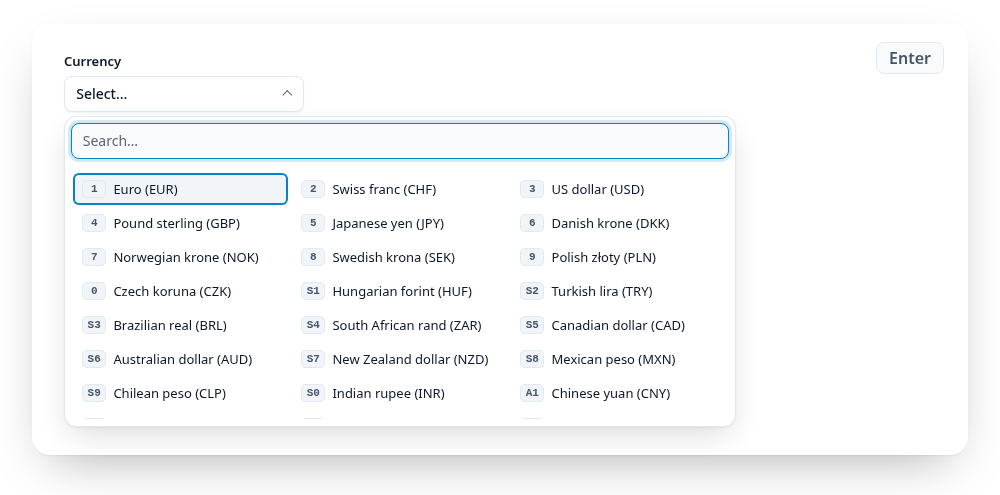
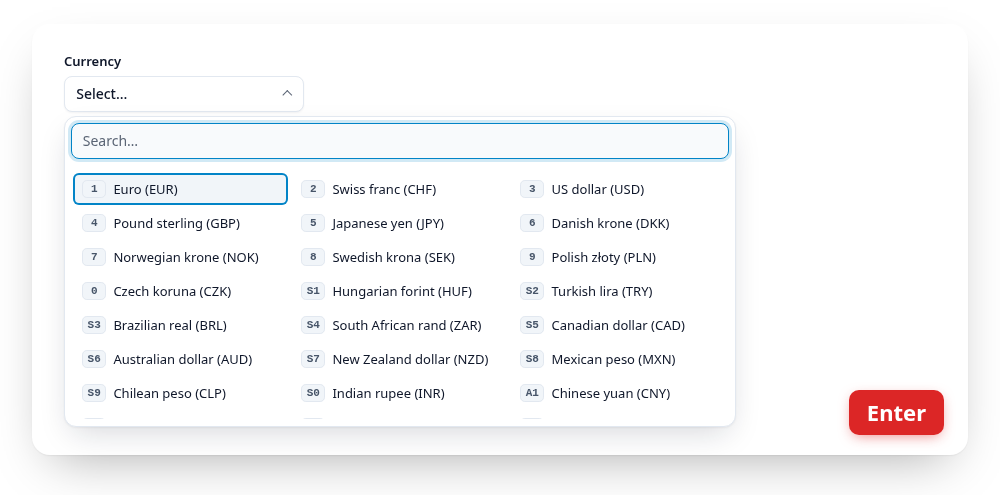
docs: red key badge in the bottom right corner of the README animations

Changed region(s): [[0.837, 0.7879, 0.961, 0.9091], [0.868, 0.0909, 0.93, 0.1515]]

diff --git a/scripts/screenshots.js b/scripts/screenshots.js
@@ -33,13 +33,14 @@ async function stage(page, scheme, id) {
       boxShadow: "0 1px 2px rgb(0 0 0 / .06), 0 20px 50px -20px rgb(0 0 0 / .35)",
     });
     card.append(document.getElementById(id));
-    // Shows the key of the current animation step in the top right corner.
+    // Shows the key of the current animation step in the bottom right corner.
     const key = document.createElement("kbd");
     key.id = "shot-key";
     Object.assign(key.style, {
-      position: "absolute", top: "18px", right: "24px", padding: "4px 12px", borderRadius: "8px",
-      font: "600 16px/1.4 system-ui, sans-serif", minWidth: "1.5em", textAlign: "center", color: "var(--page-text)",
-      background: "var(--frame-bg)", border: "1px solid var(--page-line)", visibility: "hidden",
+      // Red with white text (4.8:1), so the pressed key stands out from the teal or blue component.
+      position: "absolute", bottom: "20px", right: "24px", padding: "8px 18px", borderRadius: "10px",
+      font: "700 22px/1.3 system-ui, sans-serif", minWidth: "1.4em", textAlign: "center", color: "#ffffff",
+      background: "#dc2626", boxShadow: "0 4px 14px -4px rgb(220 38 38 / .6)", visibility: "hidden",
     });
     card.style.position = "relative";
     card.append(key);

diff --git a/README.md b/README.md
@@ -356,10 +356,10 @@ labels, or `selectedText(n)` for more. `gs.value` is always an array.
 
 <a href="https://emmgeede.github.io/gridselect/">
 <picture>
-  <source media="(prefers-reduced-motion: reduce) and (prefers-color-scheme: dark)" srcset="https://raw.githubusercontent.com/emmgeede/gridselect/main/assets/multiple-dark.png?v=1">
-  <source media="(prefers-reduced-motion: reduce)" srcset="https://raw.githubusercontent.com/emmgeede/gridselect/main/assets/multiple-light.png?v=1">
-  <source media="(prefers-color-scheme: dark)" srcset="https://raw.githubusercontent.com/emmgeede/gridselect/main/assets/multiple-dark.webp?v=1">
-  <img src="https://raw.githubusercontent.com/emmgeede/gridselect/main/assets/multiple-light.webp?v=1" width="100%" alt="Animation: the watchlist panel opens, 'dollar' filters it, Enter ticks US dollar, arrow right and Enter tick Canadian dollar, the digit 4 ticks New Zealand dollar, the field reads '3 selected', Escape closes the panel.">
+  <source media="(prefers-reduced-motion: reduce) and (prefers-color-scheme: dark)" srcset="https://raw.githubusercontent.com/emmgeede/gridselect/main/assets/multiple-dark.png?v=2">
+  <source media="(prefers-reduced-motion: reduce)" srcset="https://raw.githubusercontent.com/emmgeede/gridselect/main/assets/multiple-light.png?v=2">
+  <source media="(prefers-color-scheme: dark)" srcset="https://raw.githubusercontent.com/emmgeede/gridselect/main/assets/multiple-dark.webp?v=2">
+  <img src="https://raw.githubusercontent.com/emmgeede/gridselect/main/assets/multiple-light.webp?v=2" width="100%" alt="Animation: the watchlist panel opens, 'dollar' filters it, Enter ticks US dollar, arrow right and Enter tick Canadian dollar, the digit 4 ticks New Zealand dollar, the field reads '3 selected', Escape closes the panel.">
 </picture>
 </a>
 
@@ -416,10 +416,10 @@ it in the label, e.g. `Swiss franc (CHF)`.
 
 <a href="https://emmgeede.github.io/gridselect/">
 <picture>
-  <source media="(prefers-reduced-motion: reduce) and (prefers-color-scheme: dark)" srcset="https://raw.githubusercontent.com/emmgeede/gridselect/main/assets/search-dark.png?v=1">
-  <source media="(prefers-reduced-motion: reduce)" srcset="https://raw.githubusercontent.com/emmgeede/gridselect/main/assets/search-light.png?v=1">
-  <source media="(prefers-color-scheme: dark)" srcset="https://raw.githubusercontent.com/emmgeede/gridselect/main/assets/search-dark.webp?v=1">
-  <img src="https://raw.githubusercontent.com/emmgeede/gridselect/main/assets/search-light.webp?v=1" width="100%" alt="Animation: the currency panel opens and 'dollar' is typed letter by letter. With every letter fewer currencies remain, renumbered from 1, until six dollar currencies are left.">
+  <source media="(prefers-reduced-motion: reduce) and (prefers-color-scheme: dark)" srcset="https://raw.githubusercontent.com/emmgeede/gridselect/main/assets/search-dark.png?v=2">
+  <source media="(prefers-reduced-motion: reduce)" srcset="https://raw.githubusercontent.com/emmgeede/gridselect/main/assets/search-light.png?v=2">
+  <source media="(prefers-color-scheme: dark)" srcset="https://raw.githubusercontent.com/emmgeede/gridselect/main/assets/search-dark.webp?v=2">
+  <img src="https://raw.githubusercontent.com/emmgeede/gridselect/main/assets/search-light.webp?v=2" width="100%" alt="Animation: the currency panel opens and 'dollar' is typed letter by letter. With every letter fewer currencies remain, renumbered from 1, until six dollar currencies are left.">
 </picture>
 </a>
 
@@ -561,14 +561,14 @@ Above the threshold:
 
 <a href="https://emmgeede.github.io/gridselect/">
 <picture>
-  <source media="(prefers-reduced-motion: reduce) and (prefers-color-scheme: dark)" srcset="https://raw.githubusercontent.com/emmgeede/gridselect/main/assets/keyboard-dark.png?v=1">
-  <source media="(prefers-reduced-motion: reduce)" srcset="https://raw.githubusercontent.com/emmgeede/gridselect/main/assets/keyboard-light.png?v=1">
-  <source media="(prefers-color-scheme: dark)" srcset="https://raw.githubusercontent.com/emmgeede/gridselect/main/assets/keyboard-dark.webp?v=1">
-  <img src="https://raw.githubusercontent.com/emmgeede/gridselect/main/assets/keyboard-light.webp?v=1" width="100%" alt="Animation: Enter opens the currency panel, the cursor outline moves right twice, down twice and left once, Enter picks Polish złoty and the panel closes with it in the field.">
+  <source media="(prefers-reduced-motion: reduce) and (prefers-color-scheme: dark)" srcset="https://raw.githubusercontent.com/emmgeede/gridselect/main/assets/keyboard-dark.png?v=2">
+  <source media="(prefers-reduced-motion: reduce)" srcset="https://raw.githubusercontent.com/emmgeede/gridselect/main/assets/keyboard-light.png?v=2">
+  <source media="(prefers-color-scheme: dark)" srcset="https://raw.githubusercontent.com/emmgeede/gridselect/main/assets/keyboard-dark.webp?v=2">
+  <img src="https://raw.githubusercontent.com/emmgeede/gridselect/main/assets/keyboard-light.webp?v=2" width="100%" alt="Animation: Enter opens the currency panel, the cursor outline moves right twice, down twice and left once, Enter picks Polish złoty and the panel closes with it in the field.">
 </picture>
 </a>
 
-<sub><b>Keyboard.</b> Arrow keys move the outlined cursor through the grid, Enter picks the entry and closes the panel. The key in the top right corner is the one just pressed.</sub>
+<sub><b>Keyboard.</b> Arrow keys move the outlined cursor through the grid, Enter picks the entry and closes the panel. The red badge in the bottom right corner shows the key just pressed.</sub>
 
 ### Digit shortcuts
 
@@ -581,10 +581,10 @@ the search; in `filter` mode the visible matches are renumbered from 1, in
 
 <a href="https://emmgeede.github.io/gridselect/">
 <picture>
-  <source media="(prefers-reduced-motion: reduce) and (prefers-color-scheme: dark)" srcset="https://raw.githubusercontent.com/emmgeede/gridselect/main/assets/digits-dark.png?v=1">
-  <source media="(prefers-reduced-motion: reduce)" srcset="https://raw.githubusercontent.com/emmgeede/gridselect/main/assets/digits-light.png?v=1">
-  <source media="(prefers-color-scheme: dark)" srcset="https://raw.githubusercontent.com/emmgeede/gridselect/main/assets/digits-dark.webp?v=1">
-  <img src="https://raw.githubusercontent.com/emmgeede/gridselect/main/assets/digits-light.webp?v=1" width="100%" alt="Animation: Enter opens the currency panel with digit badges 1 to 0, then S1 to S0 and A1. Pressing 4 picks Pound sterling and closes the panel. After reopening, Shift and 3 picks Brazilian real, badge S3.">
+  <source media="(prefers-reduced-motion: reduce) and (prefers-color-scheme: dark)" srcset="https://raw.githubusercontent.com/emmgeede/gridselect/main/assets/digits-dark.png?v=2">
+  <source media="(prefers-reduced-motion: reduce)" srcset="https://raw.githubusercontent.com/emmgeede/gridselect/main/assets/digits-light.png?v=2">
+  <source media="(prefers-color-scheme: dark)" srcset="https://raw.githubusercontent.com/emmgeede/gridselect/main/assets/digits-dark.webp?v=2">
+  <img src="https://raw.githubusercontent.com/emmgeede/gridselect/main/assets/digits-light.webp?v=2" width="100%" alt="Animation: Enter opens the currency panel with digit badges 1 to 0, then S1 to S0 and A1. Pressing 4 picks Pound sterling and closes the panel. After reopening, Shift and 3 picks Brazilian real, badge S3.">
 </picture>
 </a>
 
